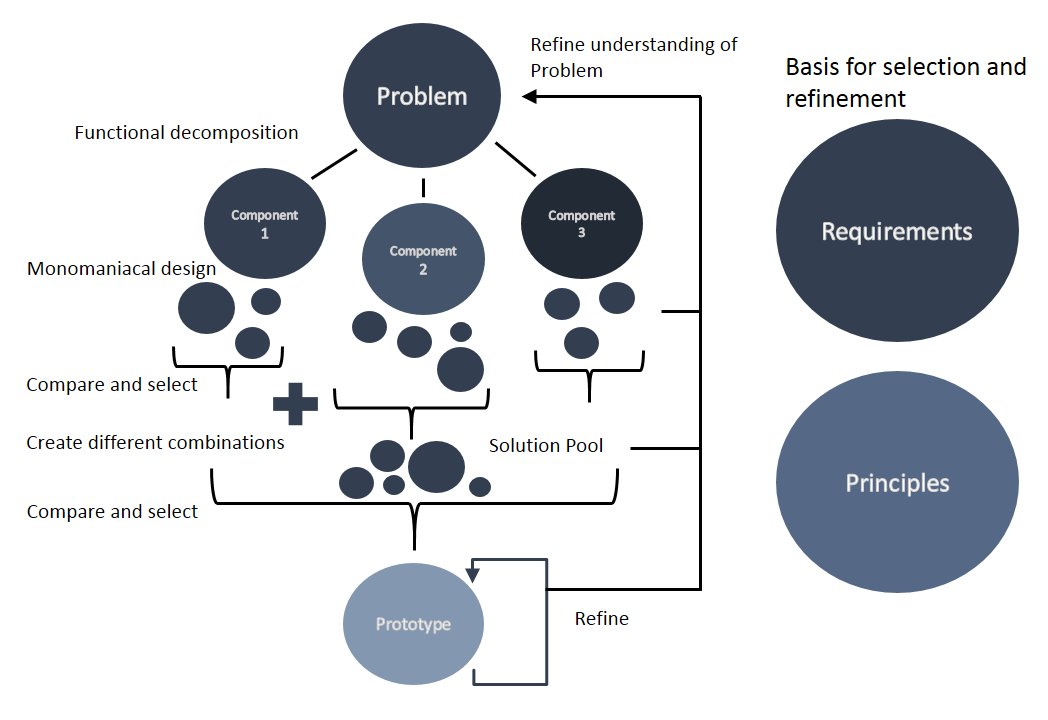
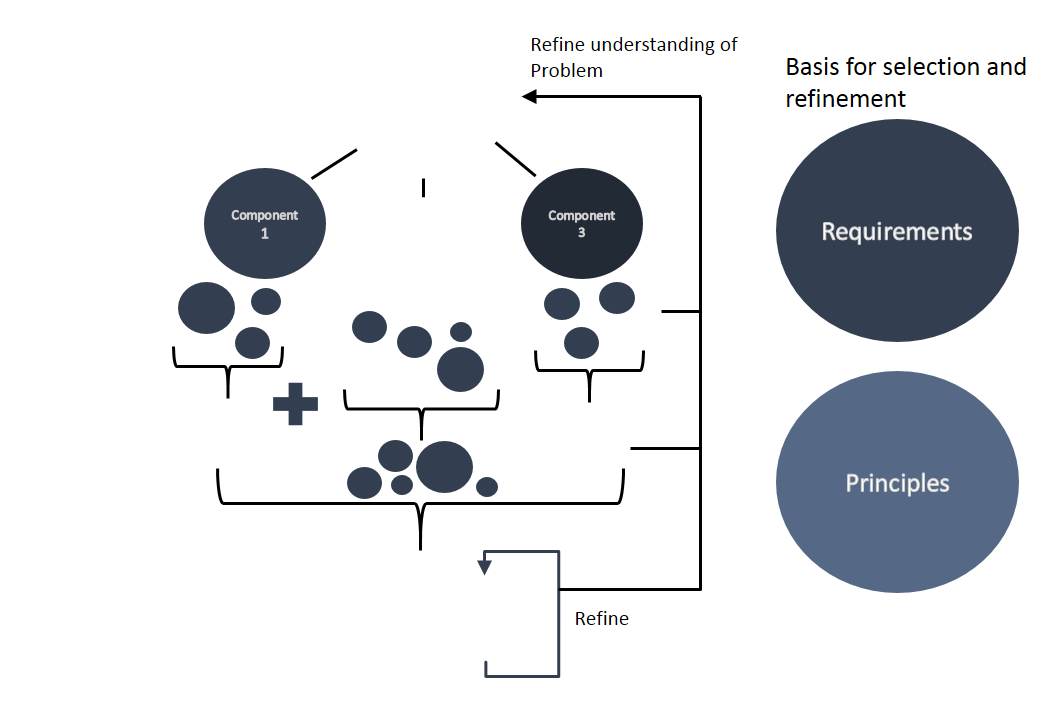
Overhauled process page with visuals
Filler info boxes for now, will fill them out tomorrow

diff --git a/interactive.css b/interactive.css
@@ -1,0 +1,59 @@
+.holder {
+	background: url("process.png") no-repeat top center;
+	margin: 0 auto;
+	position: relative;
+	max-width: 100%;
+	height: 1000px;
+}
+.hot-spots {
+	font-family:"Calibri", Arial, sans-serif;
+	margin: 0 auto;
+	position: relative;
+	width: 0px;
+}
+.hot-spot {
+	background: #333f50;
+	border-radius: 100px;
+	color: #fff;
+	position: absolute;
+	padding:10px;
+	text-align:center;
+}
+.hot-spot:hover .info {
+	display: block;
+}
+.info {
+	color: #111;
+	background: #fff;
+	border: 5px solid #333f50;
+	text-align:left;
+	display: none;
+	position: absolute;
+	padding:5px 20px;
+	left: 100px;
+	top: 0px;
+	width: 500px;
+	z-index: 10;
+}
+.text-spot {
+	position:absolute;
+	text-align:center;
+	color: #222;
+	border: 4px solid #333f50;
+	line-height: 6px;
+}
+.text-spot:hover .info {
+	display:block;
+}
+.info_txt {
+	top:50px;
+}
+#problem {top:35px;left:-168px;width:120px;height:110px;}
+#component {top:205px;left:-163px;width:105px;height:90px;}
+#prototype {top:560px;left:-165px;width:110px;height:100px;background:#586986}
+#func {top:85px;left:-475px;width:250px;height:40px;}
+#monomaniac {top:240px;left:-550px;width:205px;height:40px;}
+#compare {top:370px;left:-550px;width:205px;height:40px;}
+#generate {top:430px;left:-550px;width:205px;height:40px;}
+#compare_2 {top:530px;left:-520px;width:205px;height:40px;}
+#pool {top:420px;left:-45px;width:125px;height:40px;}

diff --git a/main.css b/main.css
@@ -5,12 +5,10 @@ body {
         color:#32383c;
         padding:0px 0px 0px 0px;
 }
-
 a {color:#8092A3;}
 a:visited {color:#111;}
 img{max-width:100%}
 ul {list-style-type:square;}
-
 blockquote {
   font:14px/22px normal helvetica, sans-serif;
   margin:10px 0px;
@@ -23,15 +21,16 @@ blockquote {
 } 
 
 pre {
-    font-family: "Courier 10 Pitch", Courier, monospace;
+    font-family: Consolas, Courier, monospace;
     font-size: 95%;
     line-height: 140%;
     white-space: pre;
     white-space: pre-wrap;
 }       
 code {
+  font-family: Consolas;
   display: block;
-   padding:5px 10px;
+  padding:5px 10px;
   border-left:3px solid #ccc;
   min-width:50%;
   width:900px;
@@ -47,17 +46,13 @@ code {
         padding:0;
 		border-top:3px solid #1e2832;
 }
-
 #navbar-menu li {
         float:left;
         text-align:center;
         padding:0px 0px 5px 0px;
         height:40px;
 }
-#navbar-menu a {
-        display:block;
-        padding:5px 32px 20px 32px;
-}
+#navbar-menu a {display:block;padding:5px 32px 20px 32px;}
 #navbar-menu a:active {border-top:1px solid #1e2832}
 #navbar-menu a:hover{color:#bebebe;background:#1e2832;}
 #navbar-menu #active {border-top:1px solid #1e2832;color:#bebebe;background:#1e2832;}
@@ -115,10 +110,7 @@ code {
   color:#888;
 }
 
-.side {
-        float:right;
-        padding:0px 76px;
-}
+.side {float:right;padding:0px 76px;}
 
 #gallery {
 	height: 1000px;

diff --git a/_layouts/default.html b/_layouts/default.html
@@ -9,6 +9,9 @@
 <meta property="og:image" content="https://lemonpi.github.io/portfolio/ogimg.png" />
 <title>{{ page.title }} - Johnson Zhong's Design Portfolio</title>
 <link rel="stylesheet" href="{{ site.baseurl }}main.css" />
+{% if page.url == "/process.html" %}
+	<link rel="stylesheet" href="{{ site.baseurl }}interactive.css" />
+{% endif %}
 <link rel="shortcut icon" href="/portfolio/favicon.ico">
 </head>
 <body>

diff --git a/process.md b/process.md
@@ -1,9 +1,63 @@
 ---
 layout: default
-title: Engineering Process
+title:
 permalink: /process.html
 group: process
 ---
+<h1 align="center">Engineering Process</h1>
+<div class="holder">
+	<div class="hot-spots">
+		<div class="hot-spot" id="problem"><br><h2>Problem</h2>
+			<div class="info">
+				<h2>Problem Understanding</h2>
+				<p>This eye is very cute, even if this is a kitten and not a monkey anymore, it's still quite cute.</p>
+			</div>
+		</div>
+		<div class="hot-spot" id="component"><h4>Component<br> 2</h4>
+			<div class="info">
+				<h2>Problem module</h2>
+				<p>Enjoying his life with his open paw.</p>
+			</div>
+		</div>
+		<div class="hot-spot" id="prototype"><br><h3>Prototype</h3>
+			<div class="info">
+				<h2>Rapid prototyping</h2>
+				<p>Enjoying his life with his open paw.</p>
+			</div>
+		</div>
+		<div class="text-spot" id="func"><h3>Functional decomposition</h3>
+			<div class="info info_txt">
+				<p>Enjoying his life with his open paw.</p>
+			</div>
+		</div>
+		<div class="text-spot" id="monomaniac"><h3>Monomaniacal design</h3>
+			<div class="info info_txt">
+				<p>Enjoying his life with his open paw.</p>
+			</div>
+		</div>
+		<div class="text-spot" id="compare"><h3>Compare and select</h3>
+			<div class="info info_txt">
+				<p>Enjoying his life with his open paw.</p>
+			</div>
+		</div>
+		<div class="text-spot" id="generate"><h3>Generate combinations</h3>
+			<div class="info info_txt">
+				<p>Enjoying his life with his open paw.</p>
+			</div>
+		</div>
+		<div class="text-spot" id="compare_2"><h3>Compare and select</h3>
+			<div class="info info_txt">
+				<p>Enjoying his life with his open paw.</p>
+			</div>
+		</div>
+		<div class="text-spot" id="pool"><h3>Solution Pool</h3>
+			<div class="info info_txt">
+				<p>Enjoying his life with his open paw.</p>
+			</div>
+		</div>
+	</div>
+</div>
+ --------------------------
 
 When I solve a problem, this is what I do:  
 
@@ -41,4 +95,3 @@ When I solve a problem, this is what I do:
  With experience, certain **patterns** have emerged to assist each step and make the entire process more structured -  
  these are the bullets under each step.
 
-![Process visual](process.png)
